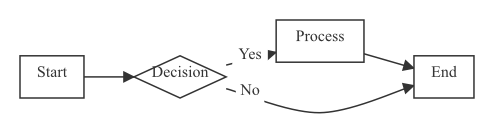
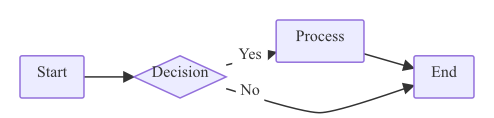
flowchart: visual parity polish — lavender theme, rounded corners, softer curves
Three small changes to bring the flowchart renderer closer to mermaid-cli's
default look:

- DefaultTheme NodeFill/NodeStroke now lavender/dark-purple (#ECECFF/#9370DB)
  matching mmdc's "default" palette. The config-driven theme mapping in
  pkg/output/svg now sources NodeFill from tc.Secondary so themed renders
  pick up the lighter background tone too.
- Default rectangles get RX=RY=2 so corners aren't sharply 90°.
- Edge label backdrops use the theme's Background color (chip-style) and
  RX=RY=3 instead of hardcoded white, so they read cleanly against any
  palette.
- Catmull-Rom tension dropped from 0.5 to 0.3; the higher value produced
  exaggerated swoops where dagre dummy-node waypoints sat just off the
  straight-line path.

Goldens and examples regenerated to match.

diff --git a/pkg/renderer/flowchart/edges_test.go b/pkg/renderer/flowchart/edges_test.go
@@ -230,15 +230,17 @@ func TestRenderEdgeLabelBackgroundRect(t *testing.T) {
 		Points:   []layout.Point{{X: 0, Y: 0}, {X: 100, Y: 0}},
 		LabelPos: layout.Point{X: 50, Y: 0},
 	}
-	elems := renderEdge(e, el, 0, DefaultTheme(), 16, ruler, nil, graph.EdgeID{})
+	th := DefaultTheme()
+	elems := renderEdge(e, el, 0, th, 16, ruler, nil, graph.EdgeID{})
 	hasBgRect := false
+	wantFill := "fill:" + th.Background
 	for _, elem := range elems {
-		if r, ok := elem.(*Rect); ok && strings.Contains(r.Style, "fill:white") {
+		if r, ok := elem.(*Rect); ok && strings.Contains(r.Style, wantFill) {
 			hasBgRect = true
 		}
 	}
 	if !hasBgRect {
-		t.Error("edge label should have a white background rect")
+		t.Errorf("edge label should have a background rect with %q", wantFill)
 	}
 }
 
@@ -254,15 +256,17 @@ func TestRenderEdgeLabelBackgroundRectWithRuler(t *testing.T) {
 		Points:   []layout.Point{{X: 0, Y: 0}, {X: 200, Y: 0}},
 		LabelPos: layout.Point{X: 100, Y: 0},
 	}
-	elems := renderEdge(e, el, 0, DefaultTheme(), 16, ruler, nil, graph.EdgeID{})
+	th := DefaultTheme()
+	elems := renderEdge(e, el, 0, th, 16, ruler, nil, graph.EdgeID{})
 	var bgRect *Rect
+	wantFill := "fill:" + th.Background
 	for _, elem := range elems {
-		if r, ok := elem.(*Rect); ok && strings.Contains(r.Style, "fill:white") {
+		if r, ok := elem.(*Rect); ok && strings.Contains(r.Style, wantFill) {
 			bgRect = r
 		}
 	}
 	if bgRect == nil {
-		t.Fatal("edge label should have a white background rect")
+		t.Fatalf("edge label should have a background rect with %q", wantFill)
 	}
 	if bgRect.Width <= 40 {
 		t.Errorf("long label rect width should exceed fallback 40, got %.2f", bgRect.Width)

diff --git a/pkg/renderer/flowchart/edges.go b/pkg/renderer/flowchart/edges.go
@@ -184,10 +184,14 @@ func renderEdge(e diagram.Edge, el layout.EdgeLayout, pad float64, th Theme, fon
 
 		labelW, labelH := measureLabel(ruler, e.Label, fontSize)
 		const labelPad = 4.0
+		// Chip-style backdrop matches mmdc — takes the theme's
+		// background so labels over edges read cleanly regardless
+		// of the active palette (lavender on white, dark on dark).
 		elems = append(elems, &Rect{
 			X: svgFloat(lx - labelW/2 - labelPad), Y: svgFloat(ly - labelH/2 - labelPad),
 			Width: svgFloat(labelW + 2*labelPad), Height: svgFloat(labelH + 2*labelPad),
-			Style: "fill:white;stroke:none",
+			RX: 3, RY: 3,
+			Style: fmt.Sprintf("fill:%s;stroke:none", th.Background),
 		})
 		elems = append(elems, &Text{
 			X: svgFloat(lx), Y: svgFloat(ly),
@@ -229,7 +233,10 @@ func buildCurvePath(pts []layout.Point) string {
 	}
 	d := fmt.Sprintf("M%.2f,%.2f", pts[0].X, pts[0].Y)
 
-	tension := 0.5
+	// Catmull-Rom tension. 0.5 gave noticeably exaggerated swoops
+	// when dummy-node waypoints sat off the straight-line path; 0.3
+	// produces a softer, more mmdc-like curve.
+	tension := 0.3
 	for i := 0; i < len(pts)-1; i++ {
 		p0 := pts[max(i-1, 0)]
 		p1 := pts[i]

diff --git a/pkg/renderer/flowchart/nodes.go b/pkg/renderer/flowchart/nodes.go
@@ -30,8 +30,11 @@ func renderNode(n diagram.Node, nl layout.NodeLayout, pad float64, th Theme, fon
 
 	switch n.Shape {
 	case diagram.NodeShapeRectangle:
+		// Slight rounding matches mermaid-cli's default rectangle
+		// look; sharp corners read as "severe" and don't match the
+		// rest of the Mermaid visual language.
 		elems = append(elems, &Rect{
-			X: svgFloat(cx - w/2), Y: svgFloat(cy - h/2), Width: svgFloat(w), Height: svgFloat(h), Style: shapeStyle,
+			X: svgFloat(cx - w/2), Y: svgFloat(cy - h/2), Width: svgFloat(w), Height: svgFloat(h), RX: 2, RY: 2, Style: shapeStyle,
 		})
 	case diagram.NodeShapeRoundedRectangle:
 		elems = append(elems, &Rect{

diff --git a/pkg/renderer/flowchart/theme.go b/pkg/renderer/flowchart/theme.go
@@ -31,10 +31,14 @@ type Theme struct {
 	Background     string
 }
 
+// DefaultTheme returns the Mermaid-classic flowchart palette: light
+// lavender fill with dark-purple stroke for nodes, matching mermaid-
+// cli's "default" theme. The config-driven mapping in
+// pkg/output/svg overrides these when an explicit theme is selected.
 func DefaultTheme() Theme {
 	return Theme{
-		NodeFill:       "#fff",
-		NodeStroke:     "#333",
+		NodeFill:       "#ECECFF",
+		NodeStroke:     "#9370DB",
 		NodeText:       "#333",
 		EdgeStroke:     "#333",
 		EdgeText:       "#333",

diff --git a/pkg/renderer/flowchart/theme_test.go b/pkg/renderer/flowchart/theme_test.go
@@ -4,11 +4,11 @@ import "testing"
 
 func TestDefaultTheme(t *testing.T) {
 	th := DefaultTheme()
-	if th.NodeFill != "#fff" {
-		t.Errorf("NodeFill = %q, want %q", th.NodeFill, "#fff")
+	if th.NodeFill != "#ECECFF" {
+		t.Errorf("NodeFill = %q, want %q", th.NodeFill, "#ECECFF")
 	}
-	if th.NodeStroke != "#333" {
-		t.Errorf("NodeStroke = %q, want %q", th.NodeStroke, "#333")
+	if th.NodeStroke != "#9370DB" {
+		t.Errorf("NodeStroke = %q, want %q", th.NodeStroke, "#9370DB")
 	}
 	if th.NodeText != "#333" {
 		t.Errorf("NodeText = %q, want %q", th.NodeText, "#333")

diff --git a/pkg/output/svg/svg.go b/pkg/output/svg/svg.go
@@ -606,7 +606,7 @@ func toClassTheme(tc *config.ThemeColors) classrenderer.Theme {
 
 func toFlowchartTheme(tc *config.ThemeColors) flowchartrenderer.Theme {
 	return flowchartrenderer.Theme{
-		NodeFill:       tc.Primary,
+		NodeFill:       tc.Secondary,
 		NodeStroke:     tc.LineColor,
 		NodeText:       tc.Text,
 		EdgeStroke:     tc.LineColor,
